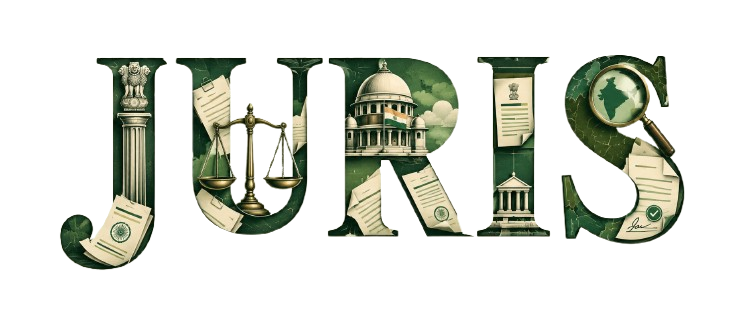
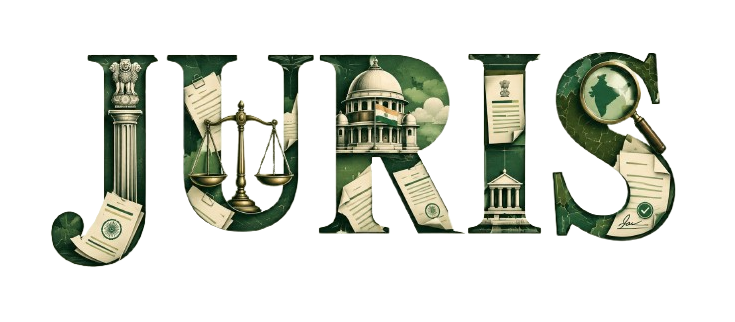
feat(web): enlarge JURIS wordmark and align flush with hero text (#19)

Changed region(s): [[0.419, 0.1553, 0.9279, 0.7453], [0.0599, 0.1553, 0.5687, 0.8385]]

diff --git a/apps/web/src/pages/UploadPage.tsx b/apps/web/src/pages/UploadPage.tsx
@@ -147,15 +147,15 @@ export const UploadPage: React.FC = () => {
         <div className="grid grid-cols-1 lg:grid-cols-12 gap-8 lg:gap-12 items-center">
           {/* Left Column: Value Proposition */}
           <div className="lg:col-span-6 flex flex-col justify-center space-y-6">
-            <div className="flex items-center gap-2.5">
+            <div className="flex items-center self-start">
               {/* Light mode: Illustrative civic wordmark */}
               <img
                 src="/assets/juris-wordmark-light.png"
                 alt="JURIS"
-                className="h-14 sm:h-18 lg:h-20 w-auto object-contain dark:hidden select-none"
+                className="w-auto h-24 sm:h-32 lg:h-36 max-w-[360px] sm:max-w-[460px] object-contain dark:hidden select-none"
               />
               {/* Dark mode: Typographic wordmark */}
-              <span className="hidden dark:inline-block font-serif font-bold text-2xl sm:text-3xl tracking-wider text-text uppercase">
+              <span className="hidden dark:inline-block font-serif font-bold text-3xl sm:text-4xl lg:text-5xl tracking-wider text-text uppercase">
                 JURIS
               </span>
             </div>
